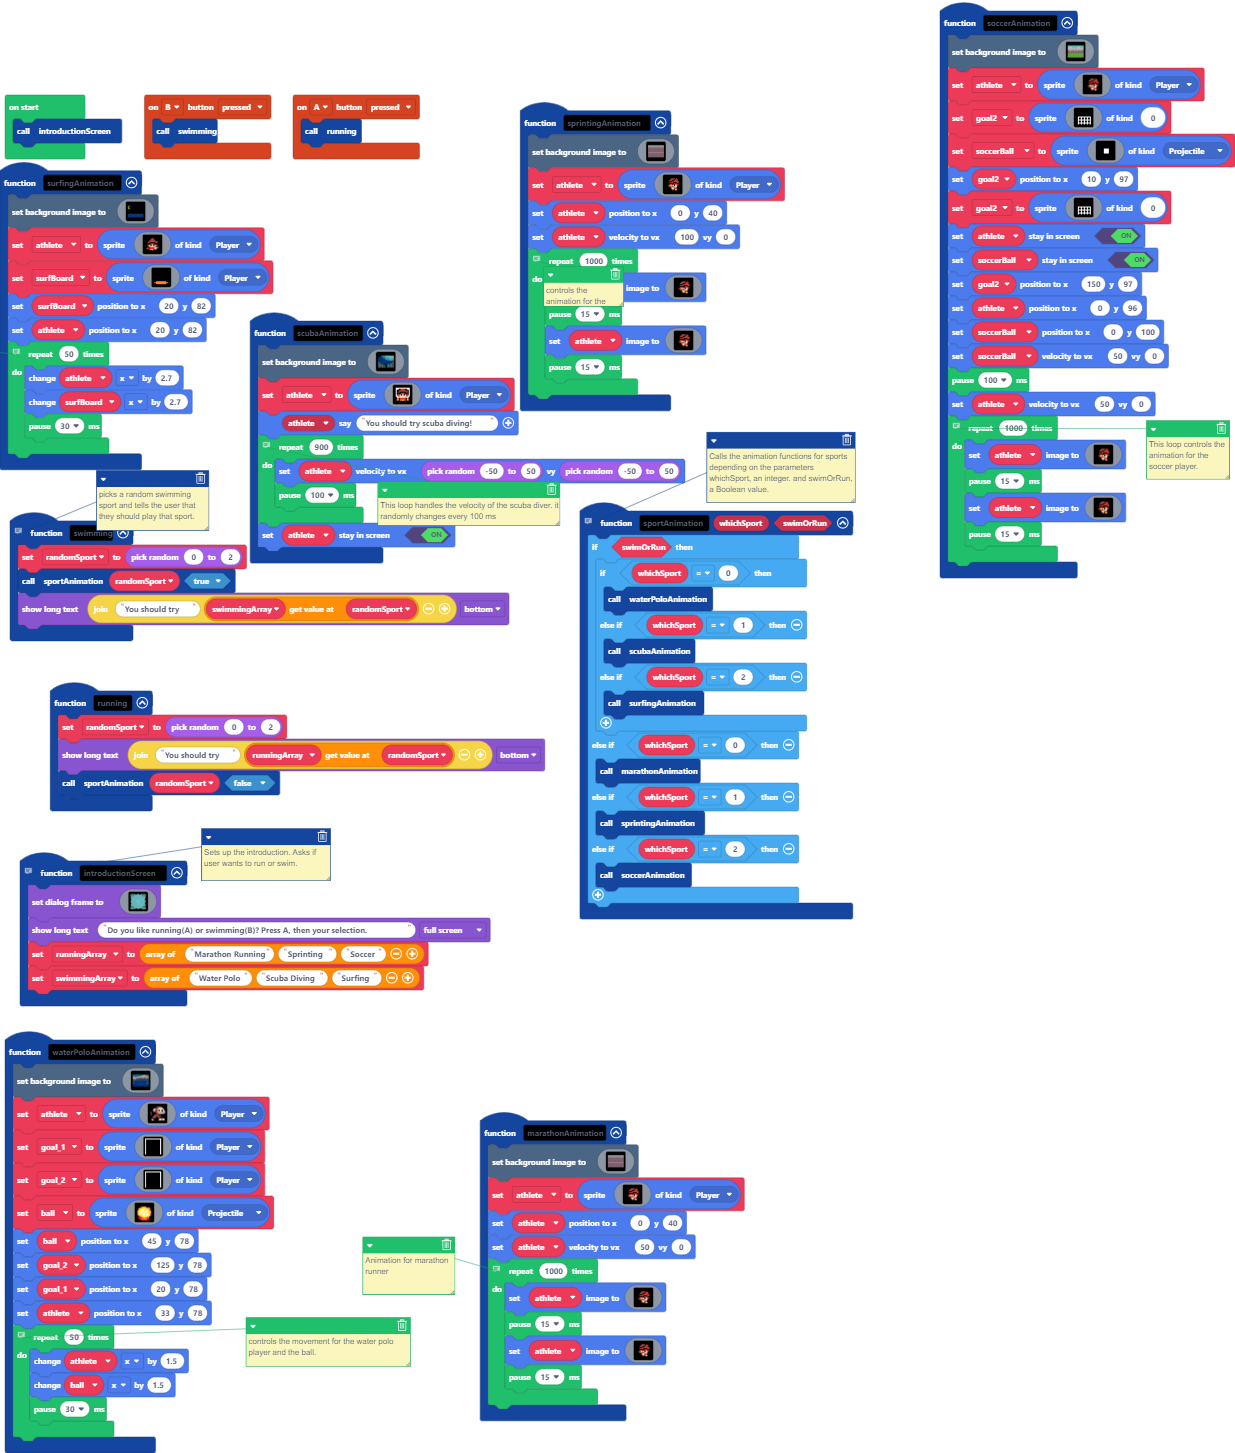
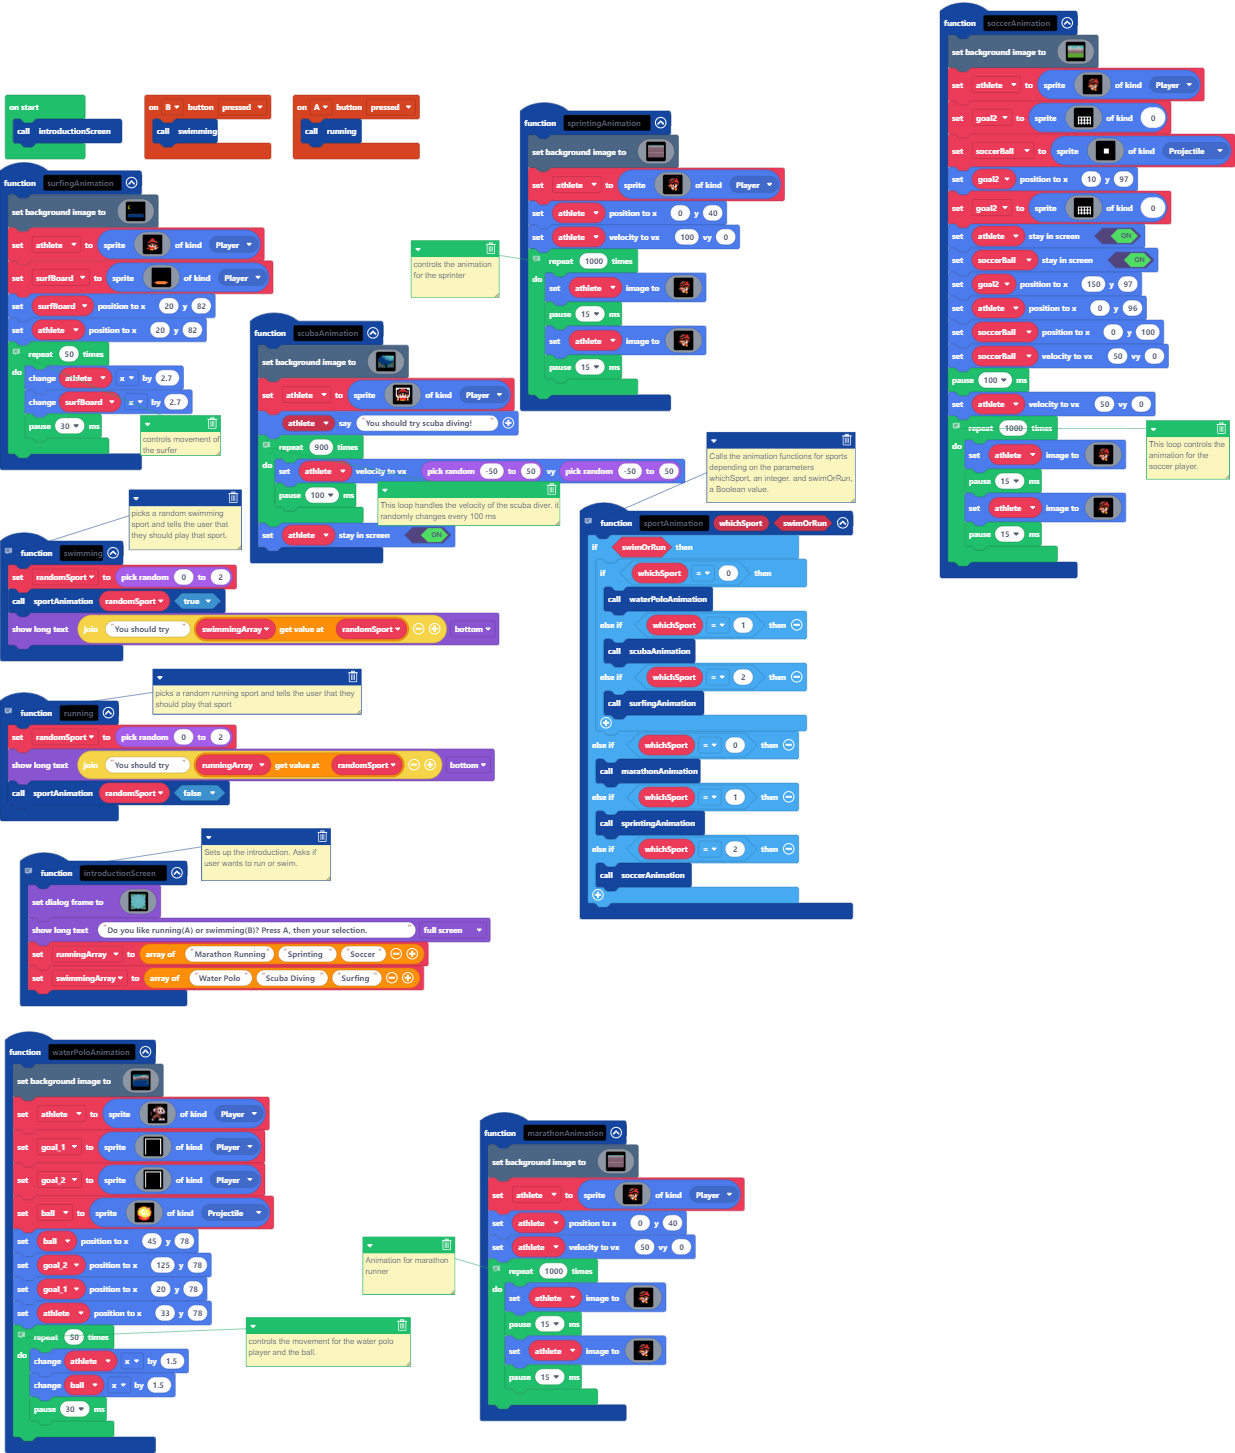
Update main.blocks, main.ts

Changed region(s): [[0.0, 0.2787, 0.4615, 0.5884], [0.3077, 0.1549, 0.4308, 0.2168], [0.4308, 0.1858, 0.5231, 0.2168]]

diff --git a/main.ts b/main.ts
@@ -789,6 +789,7 @@ function surfingAnimation () {
         pause(30)
     }
 }
+// picks a random running sport and tells the user that they should play that sport
 function running () {
     randomSport = randint(0, 2)
     game.showLongText("You should try " + runningArray[randomSport], DialogLayout.Bottom)
